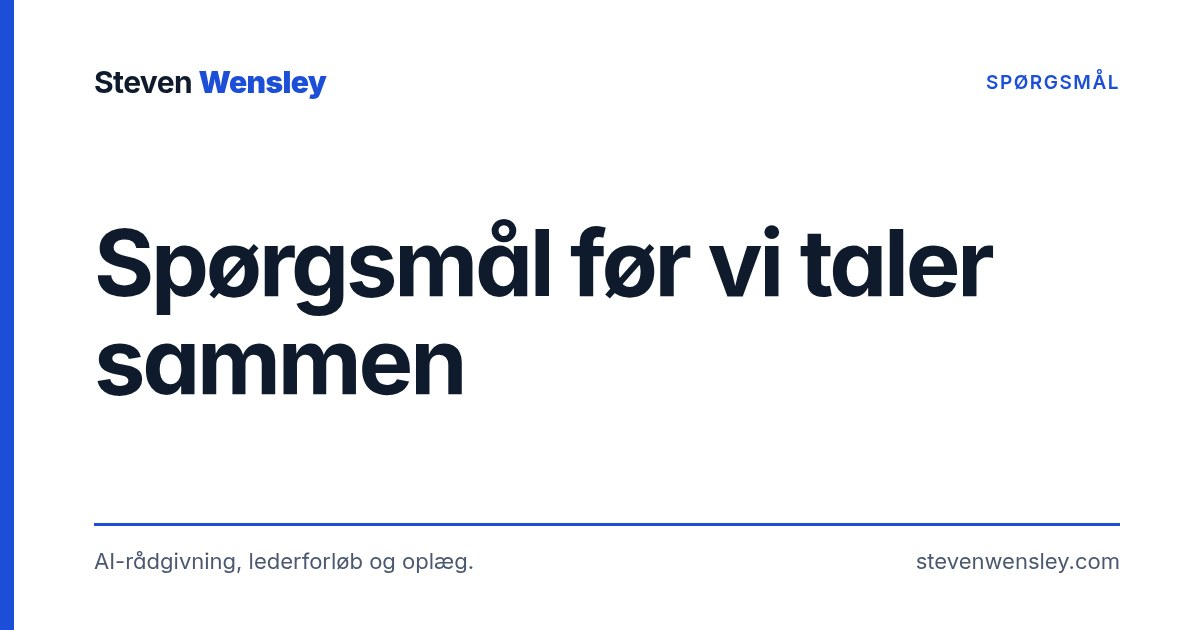
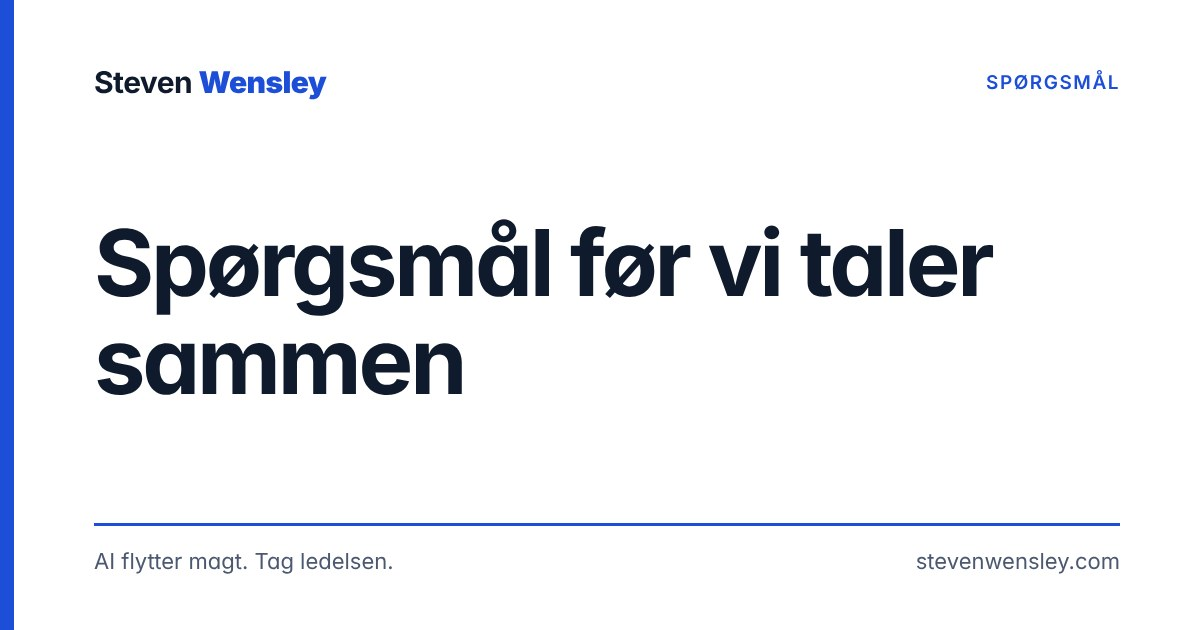
Tekstgrundlag rev. 2, pakke 1: forsiden og de fælles felter
Sirius' revision 2 (20/11 2026), felterne X og F.
- Forsiden: «AI flytter magt. Tag ledelsen.», tre situationer,
  tre spørgsmål med nye svar, eksemplet med bemærkningen i figuren,
  de tre fag som spørgsmål og LinkedIn-anbefalingerne.
- Afsnittet om arbejdsformen er fjernet (SLET).
- Menu: Rådgivning, Oplæg, Analyser, Om mig. Knap: «Lad os tale».
- Fod, delebilleder og Google-data følger den nye position.
- Prøverne følger teksten; ingen tekst er udvidet for at få dem grønne.

Claude-Session: https://claude.ai/code/session_016EQt1y2MyFtmGqZhnwiLRP

diff --git a/src/assets/css/tokens.css b/src/assets/css/tokens.css
@@ -74,6 +74,7 @@ figure.ill{margin:var(--s3) 0 0}figure.ill img{display:block;width:100%;height:a
 details.fig-d{border:0;padding:0;margin-top:8px}.fig-d summary{font-size:14px;font-weight:600;justify-content:flex-start;gap:8px}.fig-d summary::after{font-size:16px}
 .fig-d table{border-collapse:collapse;width:100%;max-width:560px;font-size:14px;margin-top:10px;font-variant-numeric:tabular-nums}.fig-d th,.fig-d td{text-align:right;padding:6px 8px;border-bottom:1px solid var(--line)}.fig-d th:first-child{text-align:left}.fig-d thead th{color:var(--mut);font-weight:600}.fig-d p{font-size:13px;margin:8px 0 0}
 .fig-k{font-size:13px;color:var(--mut);margin:12px 0 0}
+.fig-r{color:var(--mut);margin:16px 0 0}
 @media(max-width:960px){.eks{grid-template-columns:1fr;gap:var(--s4);padding:var(--s3)}}
 @media(max-width:640px){.eks{padding:20px 16px}.fig-d table{font-size:13px}.fig-d th,.fig-d td{padding:6px 3px}}
 .fig-d{overflow-x:auto}.eks>*{min-width:0}

diff --git a/src/_data/ld.js b/src/_data/ld.js
@@ -20,7 +20,7 @@ const person = {
   url: `${site.url}/`,
   image: `${site.url}/assets/img/steven-skjorte.jpg`,
   jobTitle: "AI-rådgiver for ledergrupper",
-  description: "AI-rådgivning, lederforløb og oplæg.",
+  description: "Rådgivning, lederforløb og oplæg om at bruge AI, ændre arbejdet og tage ansvar for beslutningerne.",
   email: `mailto:${site.email}`,
   telephone: site.telefon,
   sameAs: [site.linkedin],
